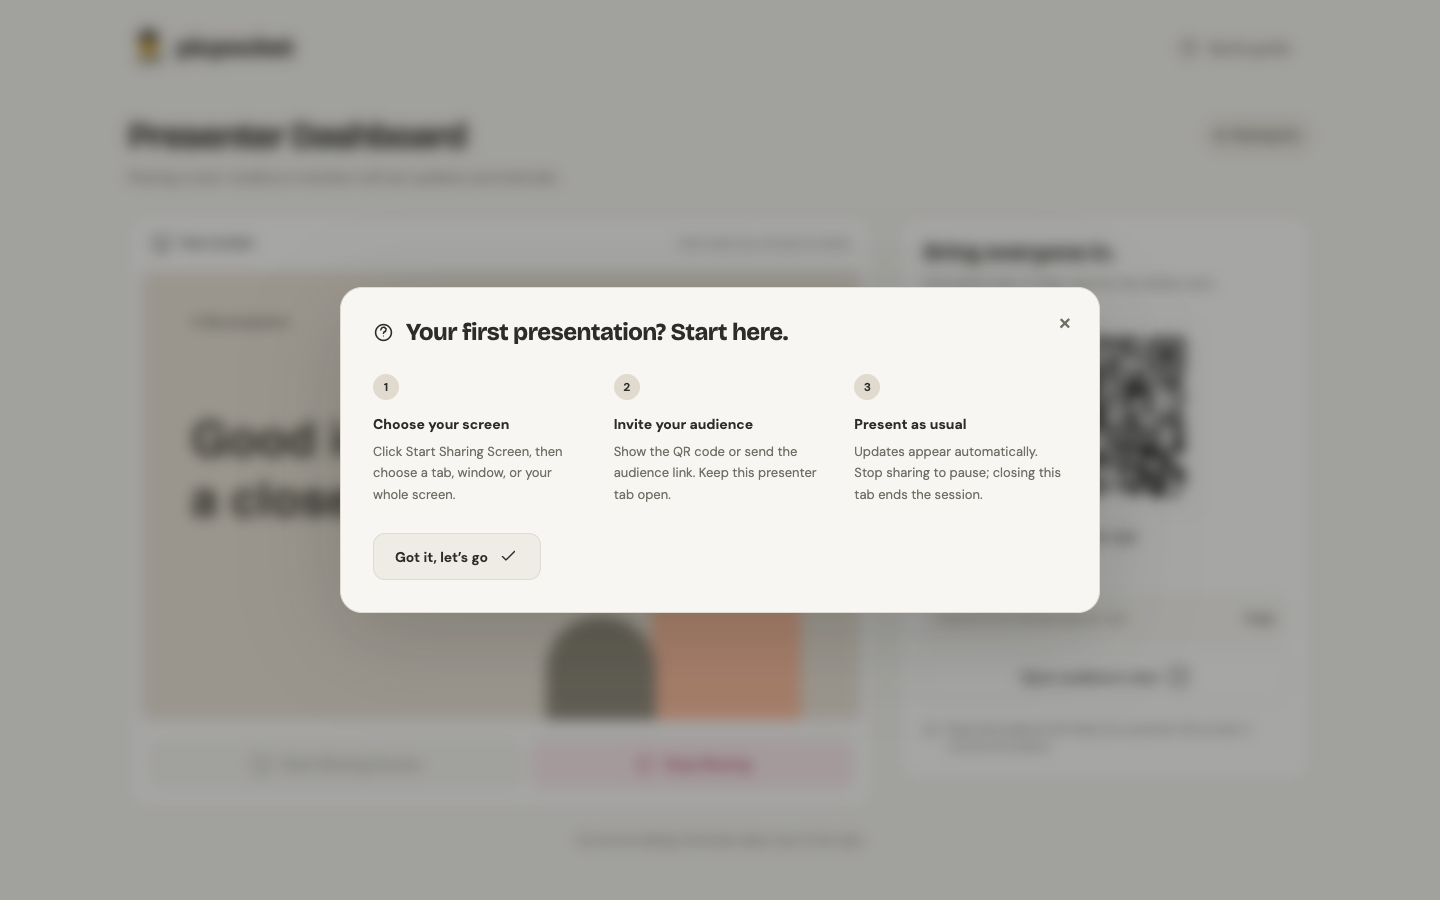
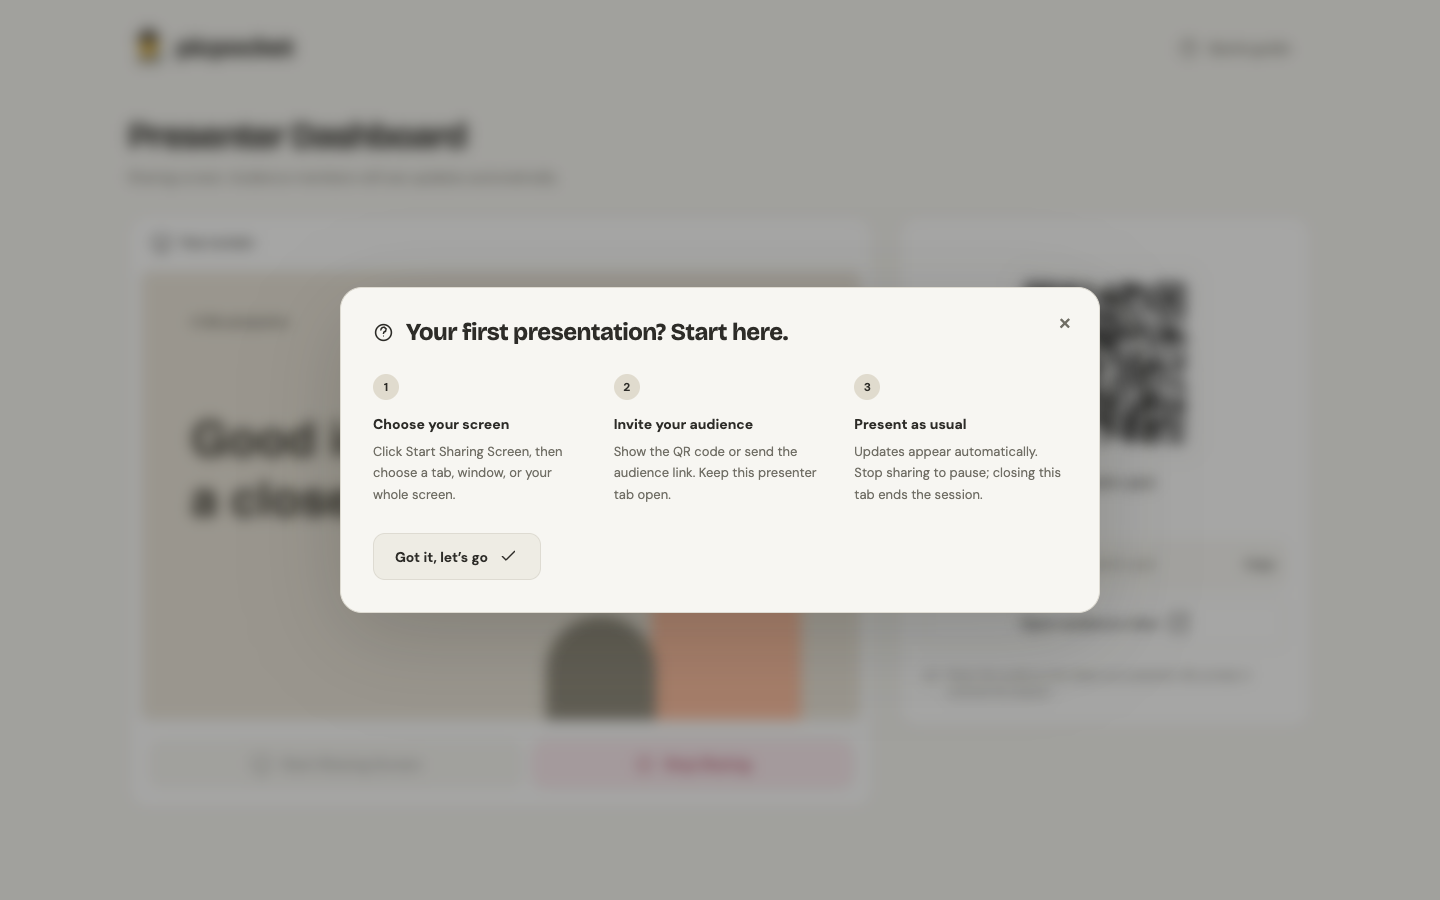
finalspecadded

Changed region(s): [[0.625, 0.2489, 0.8438, 0.56], [0.8438, 0.1244, 0.9062, 0.1556]]

diff --git a/public/css/styles.css b/public/css/styles.css
@@ -451,21 +451,6 @@ h3 {
   width: 10px;
   height: 10px;
 }
-.scene-label {
-  position: absolute;
-  left: 25px;
-  bottom: 0;
-  display: flex;
-  gap: 8px;
-  align-items: center;
-  color: var(--muted);
-  font-size: 13px;
-  transform: rotate(-4deg);
-}
-.scene-label .icon {
-  transform: rotate(-25deg);
-  width: 40px;
-}
 .how-it-works {
   padding: 46px 0 54px;
   border-top: 1px solid var(--line);
@@ -579,10 +564,6 @@ h3 {
   align-items: center;
   gap: 8px;
   font-weight: 600;
-}
-.panel-top > span:last-child {
-  color: var(--muted);
-  font-size: 12px;
 }
 .preview-stage {
   margin: 0 12px;
@@ -860,12 +841,6 @@ body:has(.guide-dialog[open]) {
     margin-top: 24px;
   }
 }
-.workspace-footnote {
-  margin-top: 22px;
-  font-size: 12px;
-  text-align: center;
-  color: var(--muted);
-}
 .viewer-page {
   --viewer-bg: #222320;
   --viewer-ink: #f5f3eb;
@@ -1013,11 +988,6 @@ body:has(.guide-dialog[open]) {
   line-height: 1.6;
   color: var(--viewer-muted);
 }
-.viewer-empty .empty-note {
-  font-size: 12px;
-  color: #aaa99c;
-  margin-top: 24px;
-}
 .footer {
   flex-shrink: 0;
   border-top: 1px solid #ffffff12;
@@ -1064,10 +1034,6 @@ body:has(.guide-dialog[open]) {
   font-size: 12px;
   color: var(--viewer-muted);
   font-variant-numeric: tabular-nums;
-}
-.viewer-hint {
-  font-size: 12px;
-  color: var(--viewer-muted);
 }
 .viewer-page .button-secondary {
   border-color: #ffffff20;
@@ -1135,11 +1101,6 @@ body:has(.guide-dialog[open]) {
     width: 148px;
     bottom: 10px;
   }
-  .scene-label {
-    font-size: 11px;
-    left: 0;
-    bottom: 34px;
-  }
   .sample-slide {
     padding: 20px;
   }
@@ -1163,9 +1124,6 @@ body:has(.guide-dialog[open]) {
   }
   .guide-content .steps {
     gap: 12px;
-  }
-  .viewer-hint {
-    display: none;
   }
 }
 @media (max-width: 760px) {
@@ -1228,10 +1186,6 @@ body:has(.guide-dialog[open]) {
     right: 0;
     bottom: 0;
   }
-  .scene-label {
-    bottom: 32px;
-    left: 5px;
-  }
   .how-it-works {
     padding: 34px 0;
     margin-top: 25px;
@@ -1270,11 +1224,11 @@ body:has(.guide-dialog[open]) {
     grid-column: 1 / -1;
   }
   .qr-frame {
-    grid-row: 3 / 7;
+    grid-row: 1 / span 5;
     grid-column: 1;
     width: 148px;
     height: 148px;
-    margin: 20px 0 0;
+    margin: 0;
   }
   #qrCodeImage {
     width: 128px;
@@ -1283,7 +1237,7 @@ body:has(.guide-dialog[open]) {
   .session-code {
     grid-column: 2;
     text-align: left;
-    margin: 20px 0 12px;
+    margin: 0 0 12px;
   }
   .link-label,
   .copy-row,
@@ -1393,16 +1347,6 @@ body:has(.guide-dialog[open]) {
     transform: rotate(-13deg) scale(0.8);
     transform-origin: bottom right;
   }
-  .scene-label {
-    font-size: 10px;
-    left: 0;
-    bottom: 28px;
-    max-width: 150px;
-    line-height: 1.5;
-  }
-  .scene-label .icon {
-    width: 28px;
-  }
   .steps {
     grid-template-columns: 1fr;
     gap: 24px;
@@ -1465,9 +1409,6 @@ body:has(.guide-dialog[open]) {
   .panel-top {
     padding: 14px 17px;
     font-size: 12px;
-  }
-  .panel-top > span:last-child {
-    font-size: 10px;
   }
   .presenter-controls {
     padding: 14px;
@@ -1532,9 +1473,6 @@ body:has(.guide-dialog[open]) {
   }
   .empty-illustration {
     display: none;
-  }
-  .viewer-empty .empty-note {
-    margin-top: 8px;
   }
 }
 @media (max-width: 380px) {

diff --git a/public/js/presenter.js b/public/js/presenter.js
@@ -32,7 +32,6 @@
   };
 
   const statusEl = document.getElementById("status");
-  const sessionBadge = document.getElementById("sessionBadge");
   const sessionCode = document.getElementById("sessionCode");
   const captureSupportMessage = document.getElementById(
     "captureSupportMessage",
@@ -89,9 +88,6 @@
           ? "Your audience can join now. Choose a screen whenever you’re ready."
           : "Your session is ready, but this browser can’t share a screen. Use a supported desktop browser to present.",
       );
-      sessionBadge.textContent = state.captureSupported
-        ? "Ready to share"
-        : "Desktop required";
       startSharingButton.disabled = !state.captureSupported;
       stopSharingButton.disabled = true;
       startNewSessionButton.hidden = true;
@@ -103,7 +99,6 @@
       setStatus(
         "Session not found or expired. Start a new session to continue.",
       );
-      sessionBadge.textContent = "Expired";
       startSharingButton.disabled = true;
       stopSharingButton.disabled = true;
       startNewSessionButton.hidden = false;
@@ -114,7 +109,6 @@
       setStatus(
         "Connection error. Check your network and start a new session if needed.",
       );
-      sessionBadge.textContent = "Connection error";
       startSharingButton.disabled = true;
       stopSharingButton.disabled = true;
       startNewSessionButton.hidden = false;
@@ -163,7 +157,6 @@
 
     if (!state.sessionId || !state.token) {
       setStatus("Presenter credentials are missing. Start from the main page.");
-      sessionBadge.textContent = "Missing session";
       startNewSessionButton.hidden = false;
       return;
     }
@@ -175,7 +168,6 @@
     qrCodeImage.hidden = false;
 
     setStatus("Connecting presenter session...");
-    sessionBadge.textContent = "Connecting";
     connectWebSocket();
     startServerPing();
   }
@@ -224,7 +216,6 @@
       setStatus(
         "Sharing screen. Audience members will see updates automatically.",
       );
-      sessionBadge.textContent = "Sharing live";
       startSharingButton.disabled = true;
       stopSharingButton.disabled = false;
       startNewSessionButton.hidden = true;
@@ -340,7 +331,6 @@
         setStatus(
           "Server is unavailable. Start a new session when it is back online.",
         );
-        sessionBadge.textContent = "Server offline";
         startSharingButton.disabled = true;
         stopSharingButton.disabled = true;
         copyLinkButton.disabled = true;
@@ -356,7 +346,6 @@
     sendPresenterMessage({ type: MESSAGE_TYPES.AWAITING });
 
     setStatus("Screen sharing stopped. You can select a new screen to share.");
-    sessionBadge.textContent = "Sharing paused";
     startSharingButton.disabled =
       !state.captureSupported || state.ws?.readyState !== WebSocket.OPEN;
     stopSharingButton.disabled = true;

diff --git a/public/presenter.html b/public/presenter.html
@@ -27,10 +27,6 @@
           <h1>Presenter Dashboard</h1>
           <p id="status" role="status">Setting up your room…</p>
         </div>
-        <div class="status-pill">
-          <span class="status-dot" aria-hidden="true"></span
-          ><span id="sessionBadge">Connecting</span>
-        </div>
       </div>
       <p id="captureSupportMessage" class="notice" hidden>
         This browser can’t share a screen. Open PicPocket in a supported desktop
@@ -48,7 +44,7 @@
                 ><svg class="icon" aria-hidden="true">
                   <use href="/icons.svg#screen" /></svg
                 >Your screen</span
-              ><span>Only what you choose to share</span>
+              >
             </div>
             <div class="preview-stage">
               <div class="preview-placeholder">
@@ -97,9 +93,7 @@
             </div>
           </div>
         </section>
-        <aside class="share-panel" aria-labelledby="invite-title">
-          <h2 id="invite-title">Bring everyone in.</h2>
-          <p>One quick scan. A clear view for the whole room.</p>
+        <aside class="share-panel" aria-label="Audience join information">
           <div class="qr-frame">
             <img
               id="qrCodeImage"
@@ -142,9 +136,6 @@
           </div>
         </aside>
       </div>
-      <p class="workspace-footnote">
-        You do the talking. PicPocket takes care of the view.
-      </p>
     </main>
     <dialog
       id="presenterGuide"

diff --git a/public/index.html b/public/index.html
@@ -71,11 +71,6 @@
               >
             </div>
           </div>
-          <div class="scene-label">
-            Same room.<br />A much better view.<svg class="icon">
-              <use href="/icons.svg#arrow" />
-            </svg>
-          </div>
         </div>
       </section>
       <section
@@ -85,7 +80,6 @@
       >
         <div>
           <h2 id="how-title">From your screen.<br />To their hands.</h2>
-          <p>Three steps. Then you’re all on the same page.</p>
         </div>
         <ol class="steps">
           <li>

diff --git a/public/audience.html b/public/audience.html
@@ -60,9 +60,6 @@
         <p id="notConnectedMsg" role="status">
           Connecting to your presentation…
         </p>
-        <p class="empty-note">
-          No need to refresh. The view updates automatically.
-        </p>
       </div>
       <p id="viewerFeedback" class="toast" role="status" hidden></p>
     </main>
@@ -160,7 +157,6 @@
             </svg>
           </button>
         </div>
-        <span class="viewer-hint">A little closer, whenever you need.</span>
       </div>
       <div class="viewer-tools">
         <button

diff --git a/public/js/audience.js b/public/js/audience.js
@@ -86,7 +86,6 @@
     };
 
     state.ws.onclose = function () {
-      emptyState.querySelector(".empty-note").hidden = true;
       clearFrame(
         state.ended
           ? "Presentation ended. You may close this tab."
@@ -104,7 +103,6 @@
     };
 
     state.ws.onerror = function () {
-      emptyState.querySelector(".empty-note").hidden = true;
       clearFrame("Connection error. Please refresh.");
       connectionStatus.textContent = "Connection error";
       copyLinkButton.disabled = true;

diff --git a/test/e2e/app.spec.js b/test/e2e/app.spec.js
@@ -258,7 +258,7 @@ test("screen capture handles permission denial, live frames, pause, and restart"
   await expect(page.locator("#noPermissionMessage")).toBeVisible();
   await expect(start).toBeEnabled();
   await start.click();
-  await expect(page.locator("#sessionBadge")).toHaveText("Sharing live");
+  await expect(page.locator("body")).toHaveAttribute("data-sharing", "true");
   await expect(audience.locator("#slideDisplay")).toBeVisible();
   await expect
     .poll(() =>

diff --git a/README.md b/README.md
@@ -26,18 +26,12 @@ A presenter shares their screen once, audience members join with a QR code or li
 
 ## Screenshots
 
-![PicPocket homepage](./asset/screenshots/home-desktop.png)
+<img src="./asset/screenshots/home-desktop.png">
 
-![Presenter dashboard sharing a screen](./asset/screenshots/presenter-desktop.png)
-
-![Live audience view on desktop](./asset/screenshots/audience-desktop.png)
-
-<p align="center">
-  <img src="./asset/screenshots/presenter-mobile.png" width="32%" alt="Presenter dashboard at phone width" />
-  <img src="./asset/screenshots/audience-mobile.png" width="32%" alt="Live audience view on a phone" />
-</p>
-
-![Quick guide with a blurred backdrop](./asset/screenshots/quick-guide.png)
+<div align="center">
+    <img src="./asset/screenshots/audience-desktop.png" width="48%">
+    <img src="./asset/screenshots/presenter-desktop.png" width="48%">
+</div>
 
 ## Architecture
 
